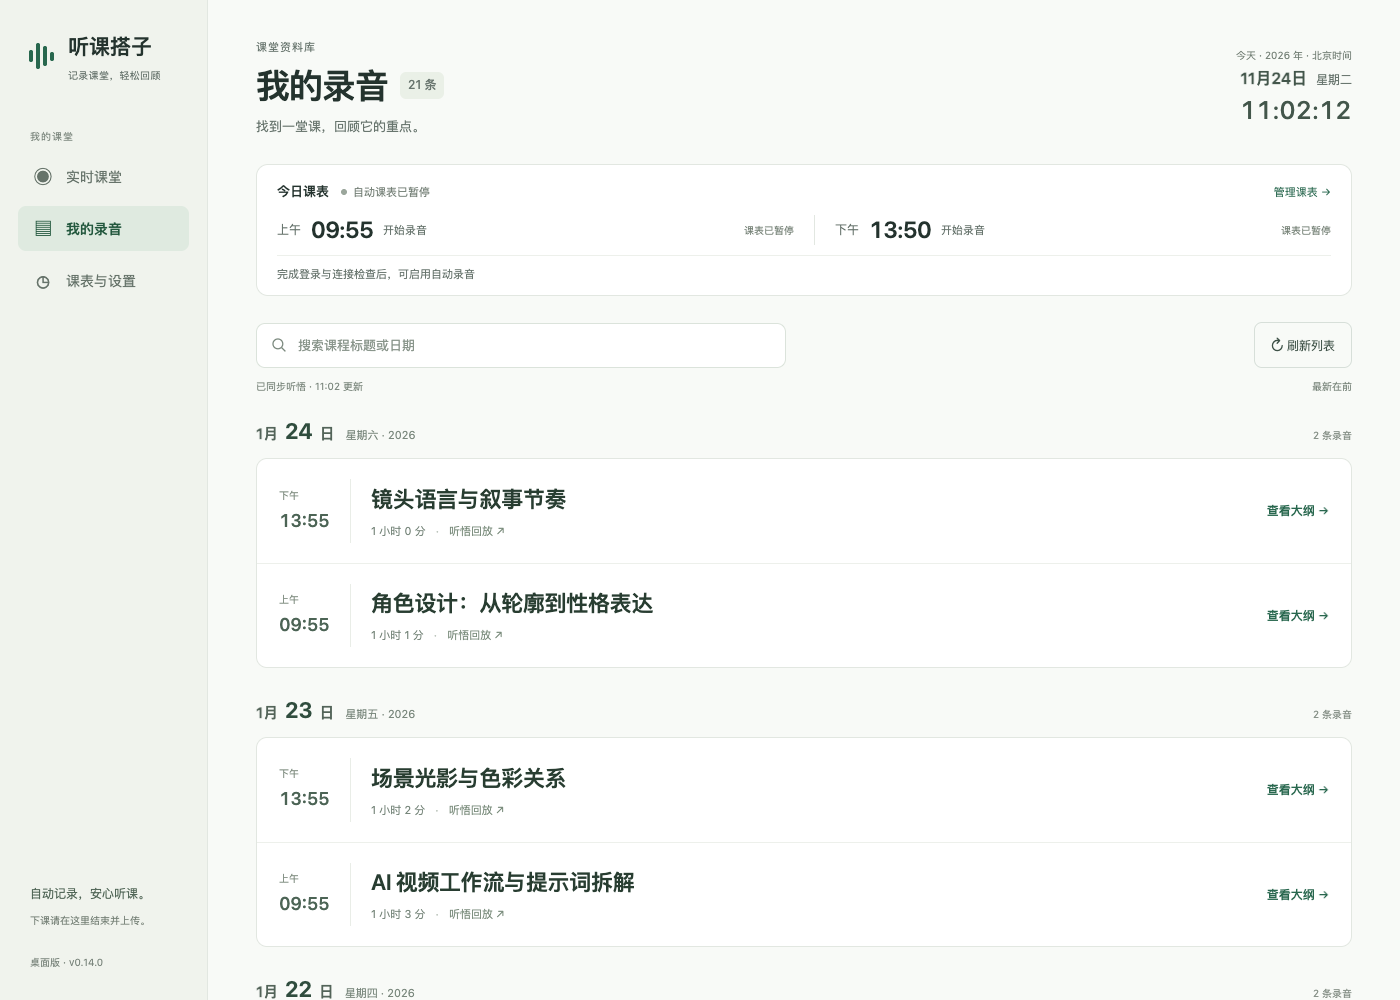
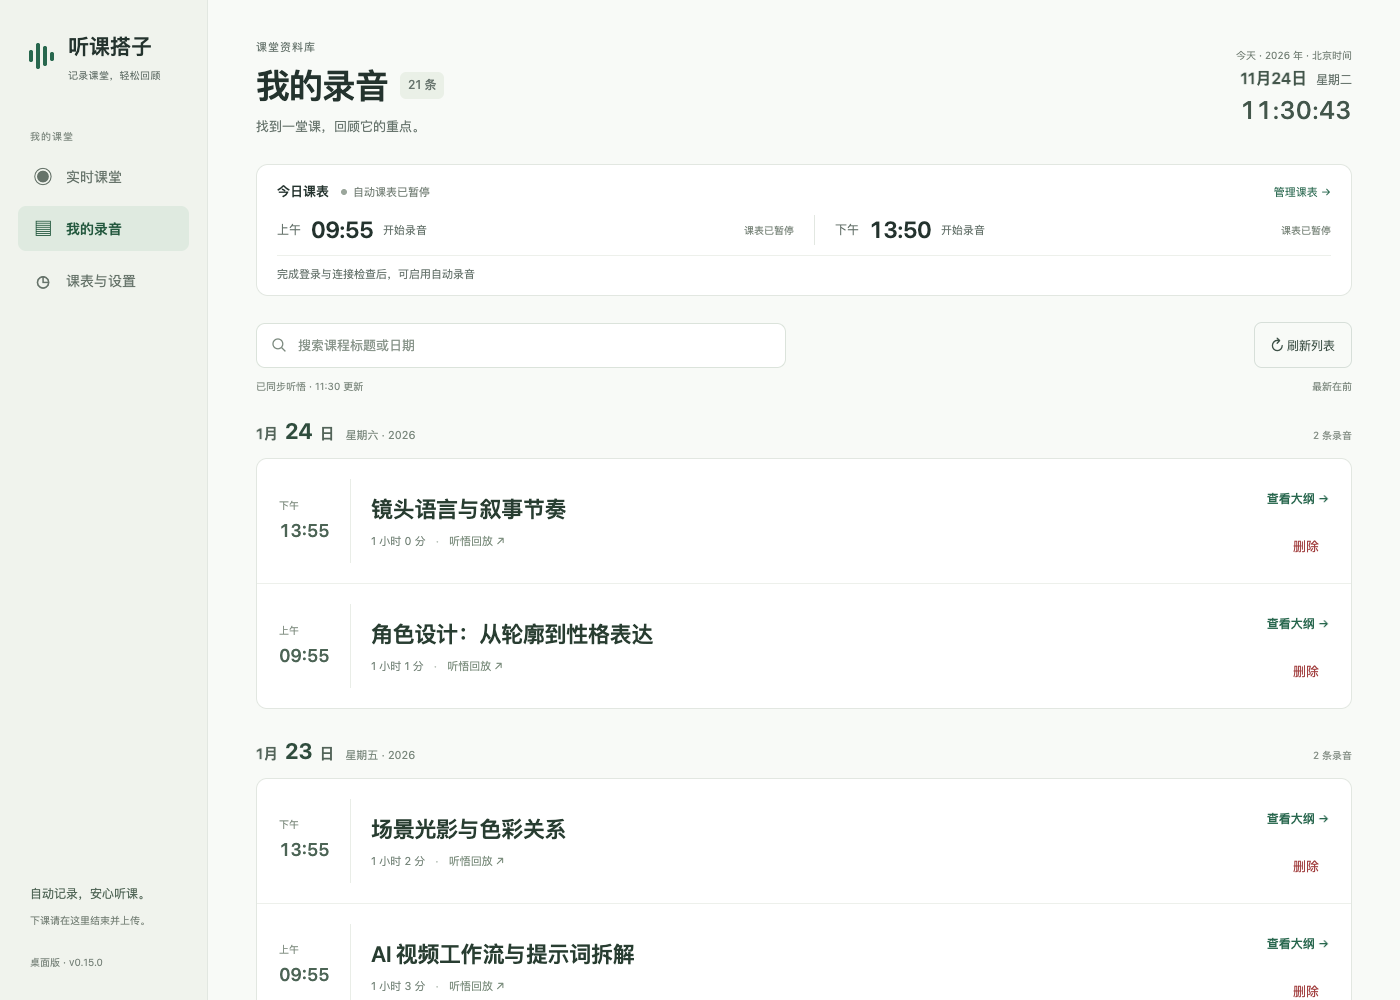
feat: sync recording deletion with Tingwu recycle bin (v0.15.0)
Add per-record deletion with explicit title confirmation and verified cloud removal. Protect active recordings and unfinished uploads, retain local backups, and persist deletion state so deleted recordings are not uploaded or synced again.

Include deletion UI and recovery tests, updated documentation, and fictional preview screenshots. Validated with 137 unit tests, desktop UI suites, and a reversible synthetic-recording cloud test.

diff --git a/desktop/app.js b/desktop/app.js
@@ -1,4 +1,5 @@
 import {createClassroomUI} from './classroom-ui.js';
+import {createDeletionUI} from './deletion-ui.js';
 const $=s=>document.querySelector(s);
 let token=$('meta[name="tingwu-token"]').content;
 const homeClockFormat=new Intl.DateTimeFormat('zh-CN',{timeZone:'Asia/Shanghai',year:'numeric',month:'numeric',day:'numeric',weekday:'long',hour:'2-digit',minute:'2-digit',second:'2-digit',hourCycle:'h23'});
@@ -24,6 +25,7 @@ async function api(name,data={}){
  const result=await r.json();if(!r.ok){const e=Error(result.error||'操作失败');e.status=r.status;throw e;}return result.result;
 }
 const classroomUI=createClassroomUI({api});
+const deletionUI=createDeletionUI({api,onDeleted:async result=>{toast(result.message);if(location.hash===('#recording/'+result.transId)||location.hash===('#classroom/'+result.localId))location.hash='library';await refresh();}});
 function render(fields=false){
  if(!state)return;
  $('#app-version').textContent=state.preview?'界面预览':`桌面版 · v${state.version||'0.9'}`;
@@ -76,10 +78,11 @@ function renderLocalRecorder(){
   const row=element('article','local-upload-row'),info=element('div');
   info.append(element('strong','',new Date(job.startedAt).toLocaleString('zh-CN',{timeZone:'Asia/Shanghai',month:'long',day:'numeric',hour:'2-digit',minute:'2-digit'})+' · '+localTime(job.durationSeconds)));
   const labels={waiting:'等待上传',uploading:`正在上传 ${Math.round((job.progress||0)*100)}%`,uploaded:'已上传听悟 · 本地音频保留',retrying:'上传暂未完成 · 将自动重试',attention:'需要检查 · 本地音频保留'};
-  info.append(element('p','hint',(job.interrupted?'录音曾中断，请核对完整性。 ':'')+(job.error||labels[job.status]||'等待上传')));
-  const actions=element('div','local-file-actions'),download=element('a','text-button','下载音频');download.href=`/api/local-audio/${encodeURIComponent(job.id)}?token=${encodeURIComponent(token)}`;download.download='';download.referrerPolicy='no-referrer';actions.append(download);const notes=element('a','text-button','文字与笔记');notes.href='#classroom/'+encodeURIComponent(job.id);actions.prepend(notes);
+  info.append(element('p','hint',(job.interrupted?'录音曾中断，请核对完整性。 ':'')+(job.deletionWarning||job.error||labels[job.status]||'等待上传')));
+  const actions=element('div','local-file-actions'),download=element('a','text-button','下载音频');download.href=`/api/local-audio/${encodeURIComponent(job.id)}?token=${encodeURIComponent(token)}`;download.download='';download.referrerPolicy='no-referrer';actions.append(download);const notes=element('a','text-button','文字与笔记');notes.href='#classroom/'+encodeURIComponent(job.id);if(!job.deletionWarning)actions.prepend(notes);
   if(job.url){const link=element('a','text-button','在听悟查看 ↗');link.href=job.url;link.target='_blank';link.rel='noopener noreferrer';actions.append(link);}
-  if(['retrying','attention'].includes(job.status)){const retry=element('button','secondary','重试上传');retry.onclick=async()=>{retry.disabled=true;try{toast((await api('local-retry',{id:job.id})).message);await refresh();}catch(e){toast(e.message);}finally{retry.disabled=false;}};actions.append(retry);}
+  if(!job.deletionWarning&&['retrying','attention'].includes(job.status)){const retry=element('button','secondary','重试上传');retry.onclick=async()=>{retry.disabled=true;try{toast((await api('local-retry',{id:job.id})).message);await refresh();}catch(e){toast(e.message);}finally{retry.disabled=false;}};actions.append(retry);}
+  const deletion=deletionUI.button({localId:job.id},info.querySelector('strong').textContent);deletion.disabled=job.status==='uploading';actions.append(deletion);
   row.append(info,actions);list.append(row);
  }
 }
@@ -136,7 +139,7 @@ function renderLibrary(){
  else if(libraryDeferred&&Date.now()-library.updatedAt>=60000)health='已显示上次同步的记录，稍后自动更新。';
  $('#library-health').textContent=health;$('#library-health').classList.toggle('warning',!!error);
  const jobs=new Map((state.naming?.jobs||[]).map(j=>[j.url,j]));
- const key=JSON.stringify([visible.map(r=>[r.transId,r.rawTitle,r.sortTime,r.duration,r.url,jobs.get(r.url)?.status]),query,!!library.updatedAt,!!error]);
+ const key=JSON.stringify([visible.map(r=>[r.transId,r.rawTitle,r.sortTime,r.duration,r.url,r.deletionWarning,jobs.get(r.url)?.status]),query,!!library.updatedAt,!!error]);
  if(key===libraryViewKey)return;libraryViewKey=key;
  const list=$('#recording-list'),fragment=document.createDocumentFragment();let groupKey=null,groupList=null;
  for(const record of visible){
@@ -160,7 +163,8 @@ function renderLibrary(){
    const original=element('a','recording-open','听悟回放 ↗');original.href=record.url;original.target='_blank';original.rel='noopener noreferrer';original.setAttribute('aria-label',`在听悟回放：${record.rawTitle}`);meta.append(element('span','meta-separator','·'),original);
    const outline=element('a','recording-outline','查看大纲 →');outline.href='#recording/'+encodeURIComponent(record.transId);outline.setAttribute('aria-label',`查看大纲：${record.title}`);trailing.append(outline);
   }
-  content.append(heading,meta);
+  trailing.append(deletionUI.button({transId:record.transId},record.rawTitle));
+  content.append(heading,meta);if(record.deletionWarning)content.append(element('p','deletion-warning',record.deletionWarning));
   row.append(stamp,content,trailing);groupList.append(row);
  }
  if(!visible.length){const empty=element('div','library-empty');empty.append(element('strong','',query?'没有找到这条录音':error?'暂时还没读到录音':library.updatedAt?'还没有已保存的录音':'正在连接你的听悟'),element('p','',query?'换个标题关键词，或试试录音日期。':error?'请保留一个已登录的听悟标签页，再点击「刷新列表」。':library.updatedAt?'在听悟结束并保存后，录音会出现在这里。':'第一次同步需要一点时间，之后打开就能看到记录。'));fragment.append(empty);}

diff --git a/desktop/style.css b/desktop/style.css
@@ -32,3 +32,5 @@ footer{display:flex;justify-content:space-between;gap:15px;font-size:10px;line-h
 @media(max-width:700px){.classroom-workspace{grid-template-columns:minmax(0,1fr)}.classroom-panel{height:480px}.notes-panel{height:440px}.classroom-heading h1{font-size:25px}.classroom-heading>.text-button{font-size:11px}.live-text-row p{font-size:16px}}
 
 .local-recorder{background:#fff;border:1px solid #cddfcf;border-radius:12px;padding:22px 24px;margin-bottom:28px}.local-top{display:flex;align-items:center;justify-content:space-between;gap:22px}.local-top>div:first-child{flex:1}.local-top h2{font-size:22px}.local-top .hint{margin-top:6px}.local-timer{font-size:32px;font-variant-numeric:tabular-nums;white-space:nowrap;letter-spacing:1px}.local-actions{display:flex;gap:8px}.is-recording{border-color:#6eac87;background:#f3faf4}.is-recording #local-title{color:#28674e}.stop-recording{color:#fff;background:#a84136;border:1px solid #a84136;font-weight:650}.local-files{margin-top:16px;border-top:1px solid var(--line);padding-top:12px}.local-files>summary{cursor:pointer;color:var(--muted);font-size:12px}.local-upload-row{display:flex;justify-content:space-between;gap:20px;padding:14px 0;border-bottom:1px solid var(--line)}.local-upload-row strong{font-size:14px}.local-upload-row .hint{margin-top:3px}.local-file-actions{display:flex;align-items:center;gap:15px;flex-wrap:wrap;flex-shrink:0}.local-file-actions .text-button{font-size:12px}.local-file-actions button{font-size:12px;padding:5px 10px}@media(max-width:900px){.local-top{flex-wrap:wrap;gap:14px}.local-top>div:first-child{flex-basis:100%}.local-timer{font-size:28px}.local-upload-row{flex-direction:column;gap:8px}.local-recorder{padding:18px}}
+
+.recording-action{display:flex;flex-direction:column;align-items:flex-end;gap:12px}.recording-delete{border:0;background:transparent;color:#a34242;font:inherit;font-size:13px;padding:6px 10px;border-radius:8px;cursor:pointer}.recording-delete:hover{background:#fceeee}.recording-delete:disabled{opacity:.45;cursor:default}.deletion-warning{color:#a34242;font-size:13px;margin:8px 0 0}#delete-dialog{width:min(480px,calc(100vw - 40px));max-height:85vh;overflow:auto;box-sizing:border-box;border:1px solid #ddd;border-radius:20px;padding:28px;color:#25332e;background:#fff;box-shadow:0 24px 90px #0003}#delete-dialog::backdrop{background:#14221d66}#delete-dialog h2{font-size:24px;margin:0 0 20px}#delete-recording-title{font-size:19px;font-weight:650;line-height:1.5;overflow-wrap:anywhere;background:#f6f7f5;border-radius:12px;padding:15px}#delete-effect,#delete-backup{line-height:1.65}#delete-error{color:#a34242;line-height:1.5;font-size:14px;min-height:22px}.delete-dialog-actions{display:flex;justify-content:flex-end;gap:12px;margin-top:22px}.delete-dialog-actions .danger{border:0;border-radius:10px;padding:11px 16px;color:#fff;background:#ad3f3f;font:inherit;cursor:pointer}.delete-dialog-actions button:disabled{opacity:.55;cursor:wait}

diff --git a/desktop/deletion-ui.js b/desktop/deletion-ui.js
@@ -1,0 +1,32 @@
+// Dialog state lives outside the polled recording lists; polling never changes its target.
+export function createDeletionUI({api,onDeleted}){
+ const $=s=>document.querySelector(s),dialog=$('#delete-dialog'),confirm=$('#delete-confirm'),cancel=$('#delete-cancel');
+ let target=null,preview=null,pending=false,deleting=false,generation=0;
+ function close(){if(deleting)return;generation++;pending=false;target=null;preview=null;dialog.close();}
+ cancel.onclick=close;dialog.addEventListener('cancel',event=>{event.preventDefault();close();});
+ async function prepare(){
+  const current=++generation;preview=null;pending=true;confirm.disabled=true;cancel.disabled=false;
+  $('#delete-error').textContent='正在核对这条录音…';
+  try{
+   const result=await api('recording-delete-prepare',target);
+   if(current!==generation)return;
+   preview=result;$('#delete-recording-title').textContent=result.title;$('#delete-effect').textContent=result.message;$('#delete-backup').textContent=result.backup;$('#delete-error').textContent='';confirm.textContent=result.transId?'删除并同步听悟':'删除并取消上传';
+  }catch(e){if(current===generation){$('#delete-error').textContent=e.message;confirm.textContent='重新核对';}}
+  finally{if(current===generation){pending=false;confirm.disabled=false;cancel.disabled=false;}}
+ }
+ async function open(selector,title){
+  if(dialog.open)return;target=selector;$('#delete-recording-title').textContent=title;$('#delete-effect').textContent='确认前将核对录音和上传状态。';$('#delete-backup').textContent='电脑上已有的原始音频、文字和笔记备份会保留。';
+  dialog.showModal();cancel.focus();await prepare();
+ }
+ confirm.onclick=async()=>{
+  if(pending)return;
+  if(!preview){await prepare();return;}
+  pending=true;deleting=true;confirm.disabled=true;cancel.disabled=true;$('#delete-error').textContent='正在同步删除，请稍候…';
+  try{
+   const result=await api('recording-delete',{confirmation:preview.confirmation,confirmed:true});
+   pending=false;deleting=false;close();await onDeleted(result);
+  }catch(e){preview=null;$('#delete-error').textContent=e.message;confirm.textContent='重新核对';}
+  finally{pending=false;deleting=false;confirm.disabled=false;cancel.disabled=false;}
+ };
+ return {button(selector,title){const b=document.createElement('button');b.className='recording-delete';b.textContent='删除';b.setAttribute('aria-label','删除录音：'+title);b.onclick=()=>open(selector,title);return b;}};
+}

diff --git a/desktop/index.html b/desktop/index.html
@@ -83,4 +83,4 @@
  <details class="settings-fold log-section"><summary>运行记录<span>遇到问题时查看</span></summary><div class="fold-content"><ul id="logs"><li>还没有运行记录。</li></ul></div></details>
 </section>
 <footer>录音先保存在本机 · 上传成功仍保留音频<span>下课请点击「结束并上传」</span></footer>
-</main><section id="notice" hidden><div class="notice-icon">◷</div><p class="eyebrow">听课搭子 · 温柔提醒</p><h1 id="notice-title">下课了，<br>现在结束录音吗？</h1><p id="notice-text">请在听课搭子中点击「结束并上传」。<br>如果还在上课，就继续记录吧。</p><button id="go-recording" class="primary wide">返回录音首页</button><button id="dismiss" class="secondary wide">还在上课，继续录制</button><small>返回首页后，由你点击结束录音。</small></section><div id="toast" role="status" hidden></div><script type="module" src="app.js"></script></body></html>
+</main><section id="notice" hidden><div class="notice-icon">◷</div><p class="eyebrow">听课搭子 · 温柔提醒</p><h1 id="notice-title">下课了，<br>现在结束录音吗？</h1><p id="notice-text">请在听课搭子中点击「结束并上传」。<br>如果还在上课，就继续记录吧。</p><button id="go-recording" class="primary wide">返回录音首页</button><button id="dismiss" class="secondary wide">还在上课，继续录制</button><small>返回首页后，由你点击结束录音。</small></section><dialog id="delete-dialog" aria-labelledby="delete-heading" aria-describedby="delete-effect delete-backup"><h2 id="delete-heading">删除这条录音？</h2><p id="delete-recording-title"></p><p id="delete-effect"></p><p id="delete-backup" class="hint"></p><p id="delete-error" role="status" aria-live="polite"></p><div class="delete-dialog-actions"><button id="delete-cancel" class="secondary" autofocus>取消</button><button id="delete-confirm" class="danger">核对录音</button></div></dialog><div id="toast" role="status" hidden></div><script type="module" src="app.js"></script></body></html>

diff --git a/install-desktop.py b/install-desktop.py
@@ -43,7 +43,7 @@ if not (base/'runtime/node').exists():shutil.copy2(Path(node_source).resolve(),b
 (base/'logs').mkdir(exist_ok=True)
 (base/'data').mkdir(mode=0o700,exist_ok=True)
 contents=app/'Contents';(contents/'MacOS').mkdir(parents=True,exist_ok=True);(contents/'Resources').mkdir(exist_ok=True)
-info={'CFBundleName':'听课搭子','CFBundleDisplayName':'听课搭子','CFBundleIdentifier':'com.tangyi.tingwuclassassistant','CFBundleVersion':'0.14.0','CFBundleShortVersionString':'0.14.0','CFBundleExecutable':'launcher','CFBundlePackageType':'APPL','LSUIElement':True,'CFBundleIconFile':'AppIcon','NSAppleEventsUsageDescription':'在上课前打开通义听悟并点击开始录音。'}
+info={'CFBundleName':'听课搭子','CFBundleDisplayName':'听课搭子','CFBundleIdentifier':'com.tangyi.tingwuclassassistant','CFBundleVersion':'0.15.0','CFBundleShortVersionString':'0.15.0','CFBundleExecutable':'launcher','CFBundlePackageType':'APPL','LSUIElement':True,'CFBundleIconFile':'AppIcon','NSAppleEventsUsageDescription':'在上课前打开通义听悟并点击开始录音。'}
 (contents/'Info.plist').write_bytes(plistlib.dumps(info))
 config={'Label':label,'ProgramArguments':[str(base/'runtime/node'),str(base/'desktop/server.mjs')],'WorkingDirectory':str(base),'RunAtLoad':True,'KeepAlive':True,'ThrottleInterval':30,'ProcessType':'Background','StandardOutPath':str(base/'logs/service.log'),'StandardErrorPath':str(base/'logs/error.log')}
 plist.parent.mkdir(exist_ok=True);plist.write_bytes(plistlib.dumps(config))

diff --git a/README.md b/README.md
@@ -4,6 +4,14 @@
 
 ![录音列表首页（虚构课程示例）](preview/录音列表首页.png)
 
+## v0.15 删除录音并同步听悟
+
+- 在「我的录音」或「本地音频与上传记录」点击单条录音的「删除」，核对标题后确认。已上传录音使用听悟的回收站删除；未上传的本地录音取消自动上传并移出列表。不提供永久清空回收站操作。
+- 正在录制、上传中或上传结果不明确的录音禁止删除。电脑上的原始音频、转写和笔记保留在 `data/local/` 作为备份；删除操作不释放这些文件的磁盘空间。
+- 同步删除后重新读取完整听悟列表核验。断网、登录失效或未确认结果时保留记录并提示重新核对，不自动重复删除。`data/local/recording-deletions.json` 持久记录删除状态，阻止备份在重启后再次上传、改名或同步笔记。
+- 可在听悟回收站恢复记录，再刷新 App 云端列表；本机删除标记和备份继续保留，不会自动重新上传或覆盖恢复记录的笔记。
+- 删除接口根据当前听悟网页实际使用的 `delTrans` 核对，限定单条 `transIds` 和 `deletePermanently:false`；请求只在已登录 Chrome 标签页后台执行。
+
 ## v0.14 笔记同步到听悟
 
 - 课堂笔记仍先自动保存到本机。你点击「结束并上传」、音频上传成功后，笔记会自动同步到**对应录音的听悟笔记区**；后续在 App 的修改也会继续同步。未上传的课堂不会误绑定到其他听悟记录。
